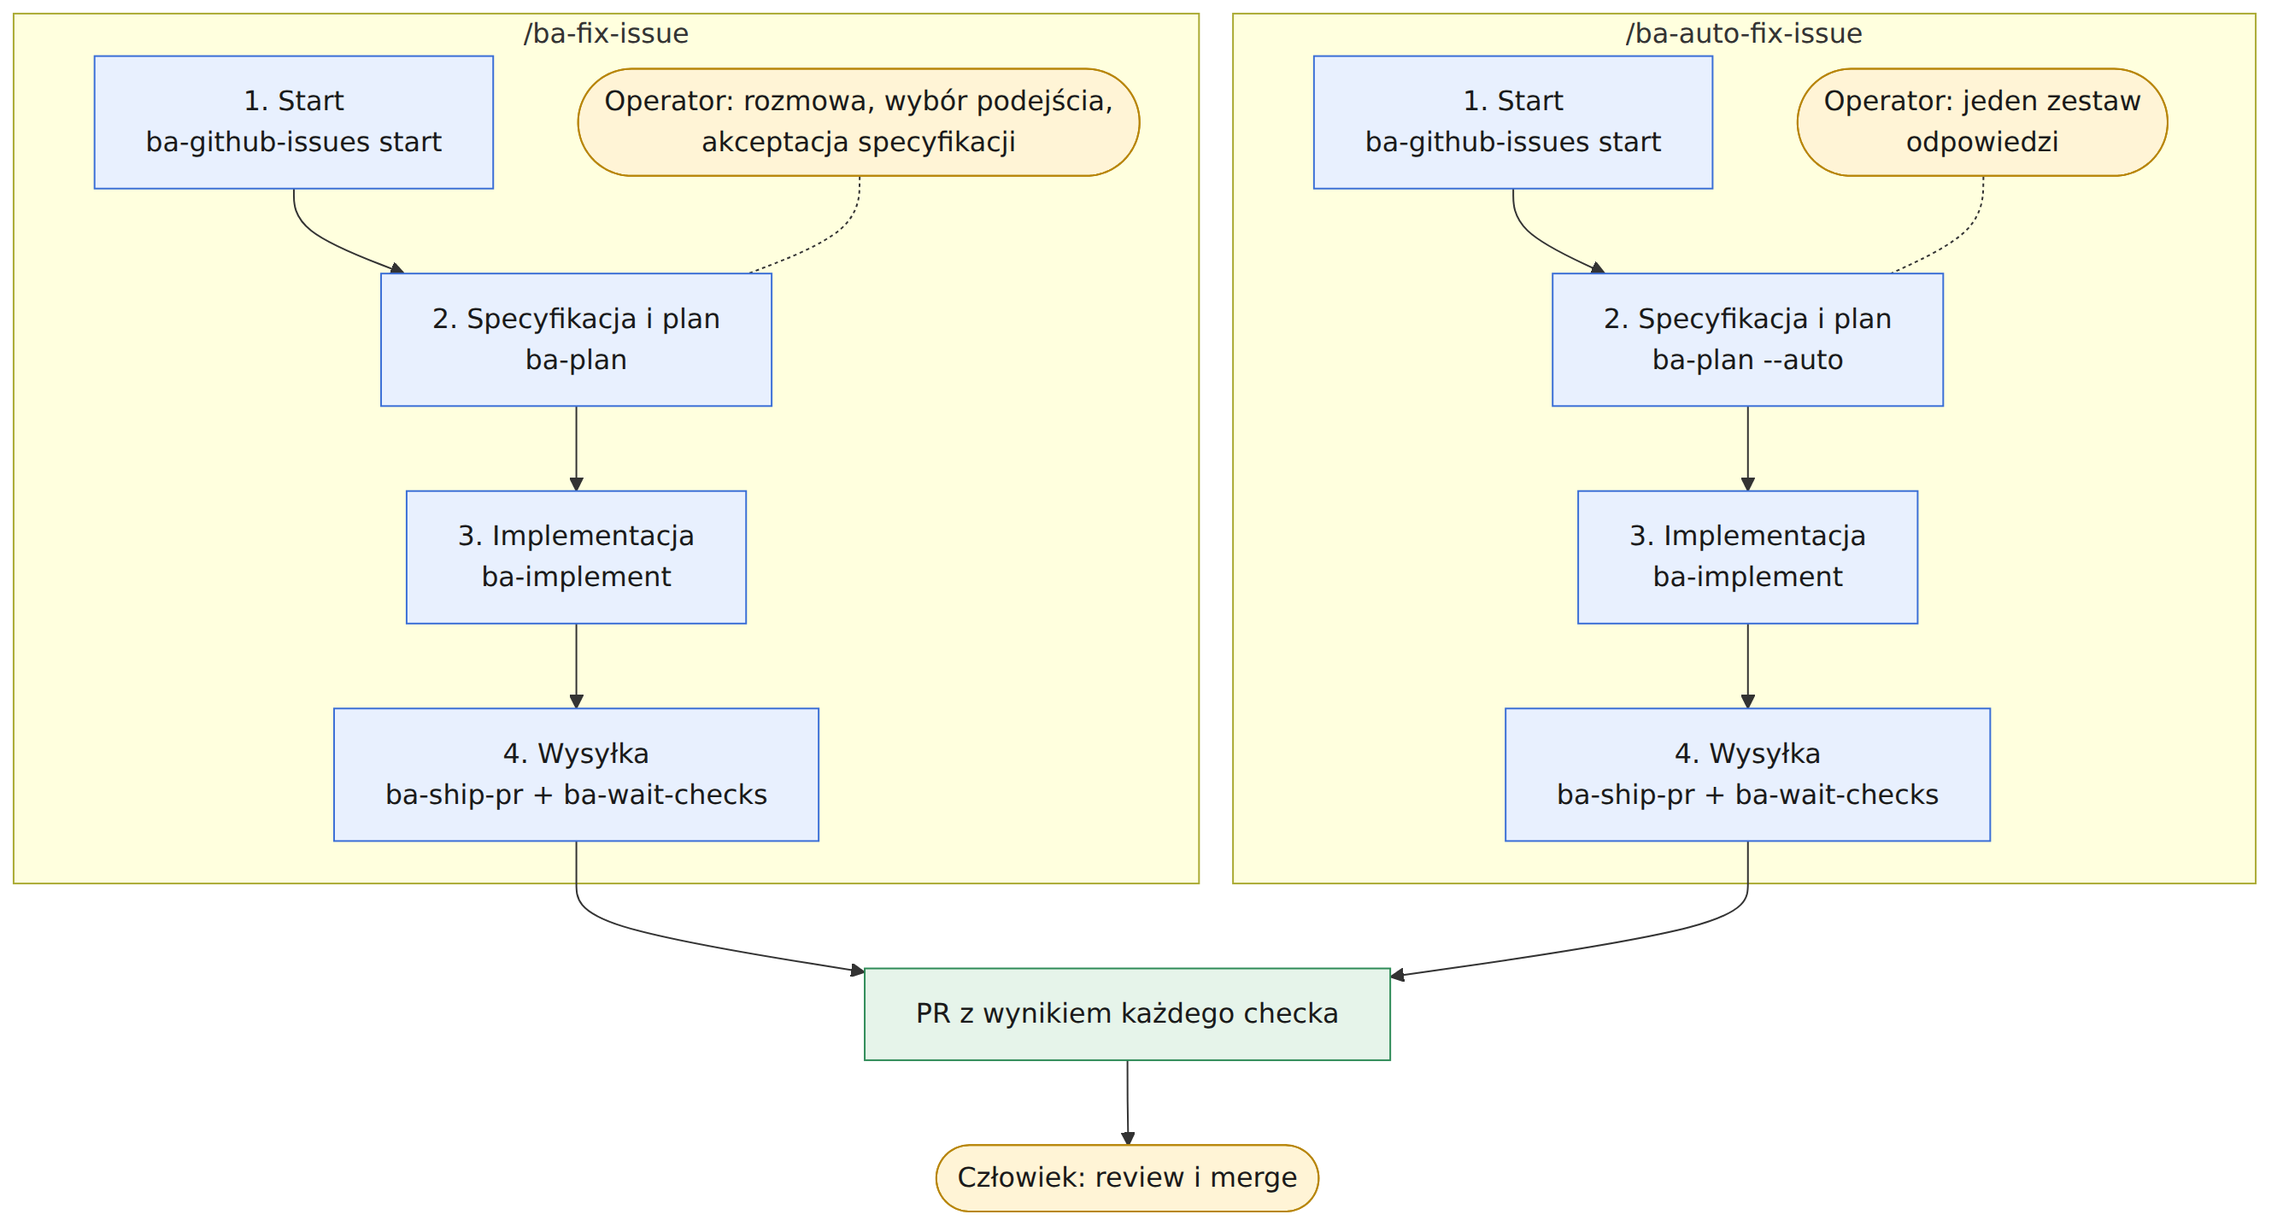
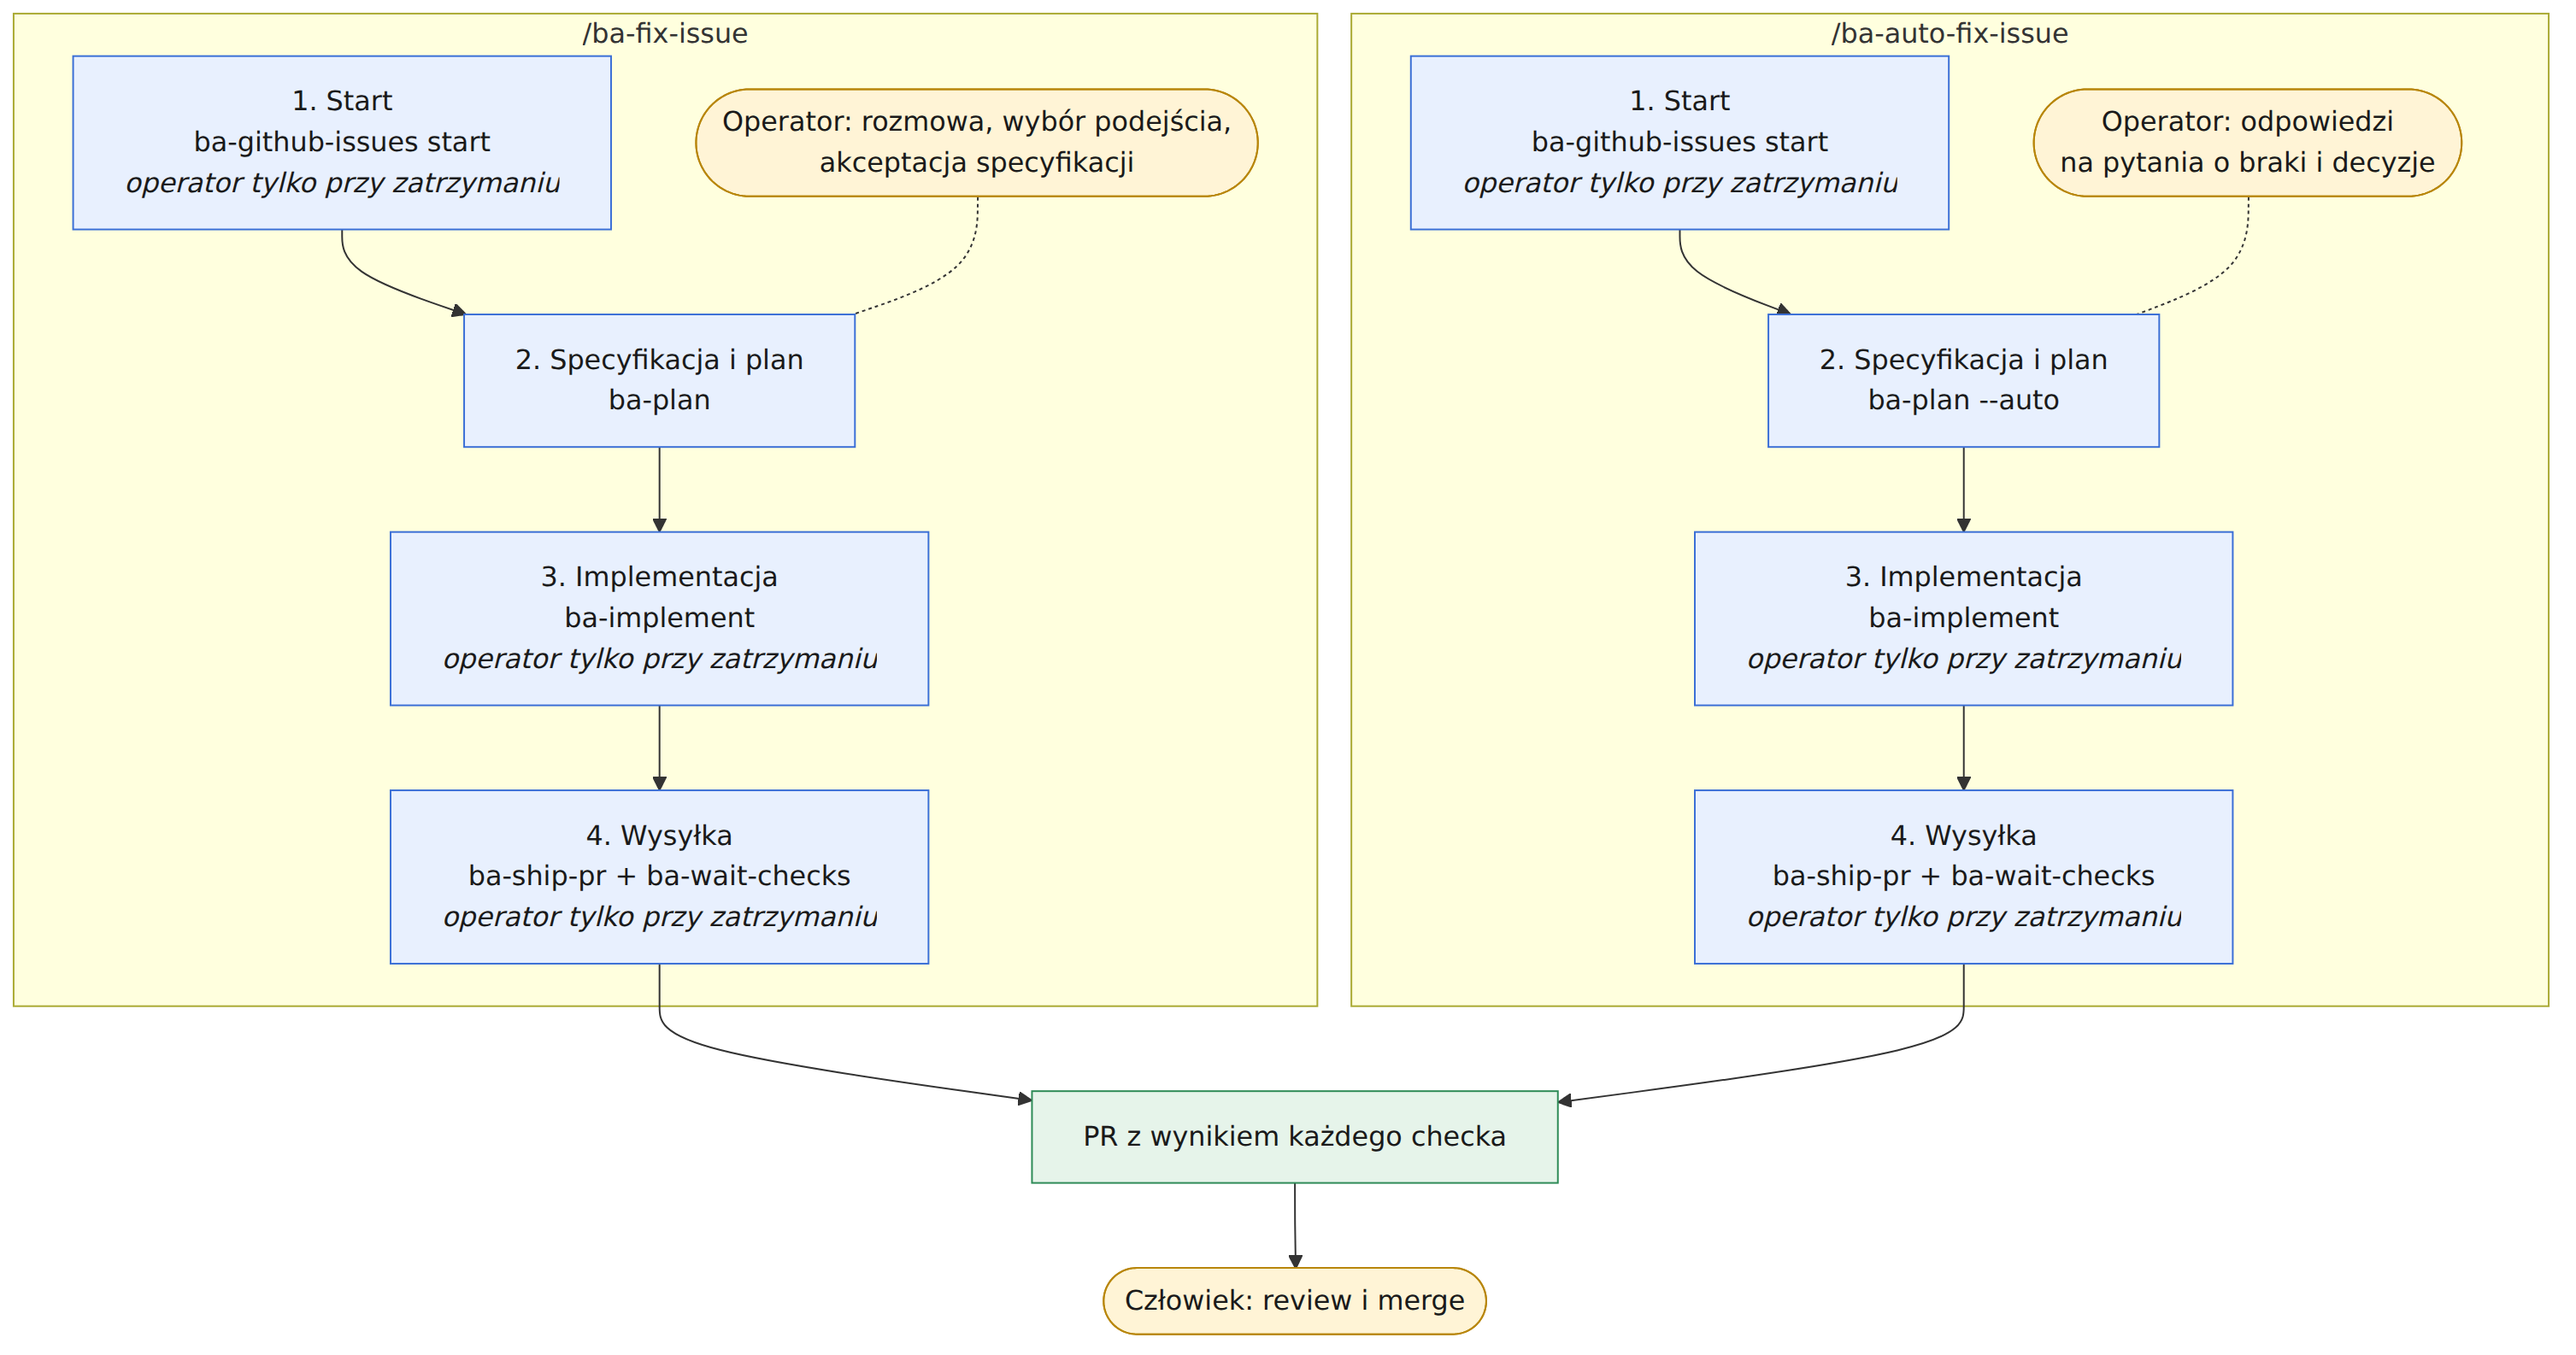
docs(diagrams): poprawki po recenzji gałęzi (#4)

diff --git a/README.md b/README.md
@@ -56,23 +56,23 @@ Skille składają się w proces od issue do merge'a. Źródła diagramów i spos
 
 ![Dwa łańcuchy, /ba-fix-issue i /ba-auto-fix-issue, przechodzą te same 4 etapy: start, specyfikacja i plan, implementacja, wysyłka](docs/diagrams/01-dwie-drogi.png)
 
-Oba łańcuchy przechodzą te same 4 etapy i kończą się PR-em z wynikiem każdego checka. W `/ba-fix-issue` operator współtworzy i akceptuje specyfikację, w `/ba-auto-fix-issue` odpowiada raz na pytania, a pozostałe etapy pytają go tylko przy zatrzymaniu.
+Oba łańcuchy przechodzą te same 4 etapy i kończą się PR-em z wynikiem każdego checka. W `/ba-fix-issue` operator współtworzy i akceptuje specyfikację, w `/ba-auto-fix-issue` odpowiada na pytania o braki i decyzje. Pozostałe etapy pytają go tylko przy zatrzymaniu.
 
 ### `/ba-fix-issue` krok po kroku
 
 ![Kroki /ba-fix-issue w torach operator, agent i GitHub, od wywołania do merge'a](docs/diagrams/02-fix-issue-tory.png)
 
-Operator wywołuje łańcuch i rozmawia z agentem tylko o specyfikacji. Resztę, aż do raportu z PR-em, agent robi sam, a review i merge zostają po stronie człowieka.
+Operator wywołuje łańcuch i współtworzy specyfikację. Resztę, aż do raportu z PR-em, agent robi sam i pyta tylko przy zatrzymaniu, a review i merge zostają po stronie człowieka.
 
 ### Gdzie decyduje operator
 
 ![5 rodzajów decyzji opiekuna i 2 momenty, w których agent pyta: strażnik w ba-plan i strażnik w ba-implement](docs/diagrams/03-decyzje-operatora.png)
 
-Decyzji opiekuna agent nigdy nie podejmuje sam. Pyta o nią w `ba-plan` przed specyfikacją albo staje w `ba-implement`, gdy decyzja wyjdzie dopiero przy kodzie.
+Agent nigdy nie podejmuje sam decyzji opiekuna. Pyta o każdą w `ba-plan` przed specyfikacją albo staje w `ba-implement`, gdy decyzja wyjdzie dopiero przy kodzie.
 
 ### Klocki i łańcuchy
 
-![Łańcuchy /ba-fix-issue i /ba-auto-fix-issue wołają po kolei ba-github-issues, ba-plan, ba-implement i ba-ship-pr, a ba-ship-pr woła ba-wait-checks i ba-mutation-check](docs/diagrams/04-klocki-i-lancuchy.png)
+![Łańcuchy /ba-fix-issue i /ba-auto-fix-issue wołają po kolei ba-github-issues, ba-plan, ba-implement i ba-ship-pr. ba-ship-pr woła ba-wait-checks, a ba-mutation-check sprawdza testy w ba-implement i ba-ship-pr](docs/diagrams/04-klocki-i-lancuchy.png)
 
 Łańcuch to skill, który woła klocki w ustalonej kolejności. `ba-setup` i `ba-refine-issue` działają przed łańcuchem, a `ba-qa` uruchamiasz osobno po implementacji.
 

diff --git a/.ai/runs/2026-11-18-readme-process-diagrams.md b/.ai/runs/2026-11-18-readme-process-diagrams.md
@@ -1,0 +1,28 @@
+# Dziennik: diagramy procesu skilli ba-* w README
+
+Issue: #4
+Plan: [`.ai/specs/2026-11-18-readme-process-diagrams-plan.md`](../specs/2026-11-18-readme-process-diagrams-plan.md)
+
+## Wybory
+
+- Plan wykonuję sam w głównej sesji, zadanie po zadaniu, zamiast podagenta na zadanie.
+  - Powód: 3 małe zadania dokumentacyjne. Task 2 wymaga oglądania PNG i poprawek układu w pętli.
+  - Recenzja całej gałęzi idzie do osobnego agenta.
+- Render z `-w 1600`. Domyślne okno 800 px zmniejszało szeroki diagram 1 do nieczytelnego tekstu. Spec i plan poprawione.
+- Diagramy z nagłówkiem `config: flowchart: wrappingWidth`. Domyślne zawijanie łamało nazwy skilli w połowie (`ba-wait-` / `checks`).
+- Diagram 1 w układzie pionowym: dwie kolumny łańcuchów. Układ poziomy miał 3168 px i za mały tekst.
+  - Uwaga „Start, Implementacja i Wysyłka pytają operatora tylko przy zatrzymaniu” przeszła do opisu pod diagramem. Jako osobny węzeł wisiała bez połączeń.
+- Diagram 3: 5 decyzji w jednym bloku z listą. Osobne bloki dawały obraz 1940 px wysokości.
+- Diagram 4: klocki w kolejności wywołania, jedna strzałka z łańcuchów. 8 krzyżujących się strzałek było nieczytelne.
+
+## Postęp
+
+- Task 1: test `tests/test_readme_diagrams.py`, 5 czerwonych. Commit b62893a.
+- Task 2: 4 pary `.mmd` + `.png`, każdy PNG obejrzany.
+- Task 3: sekcja `## Proces` w README i `docs/diagrams/README.md`. Test zielony.
+- Weryfikacja: bramka jakości zielona, 81 testów. Mutacja testu: zła ścieżka w README i brak `.mmd` dają czerwień.
+- Druga droga: grep źródeł `.mmd` (9 klocków, 5 decyzji, `ba-wait-checks` w diagramach 1 i 2), PNG w trybie RGB bez przezroczystości.
+- Recenzja całej gałęzi (osobny agent): 5 uwag, wszystkie przyjęte.
+  - Diagram 1: adnotacja „operator tylko przy zatrzymaniu” w etapach 1, 3, 4. Wraca wymóg ze specyfikacji.
+  - Diagram 4: strzałka `ba-implement` → `ba-mutation-check` według „Dobór skilli” w `project.md`.
+  - README: podpis diagramu 2 bez „tylko o specyfikacji”, `--auto` bez „raz”, zgoda zaimka w podpisie diagramu 3.

diff --git a/.ai/specs/2026-11-18-readme-process-diagrams.md b/.ai/specs/2026-11-18-readme-process-diagrams.md
@@ -65,7 +65,7 @@ README osadza obraz ścieżką względną: `![opis](docs/diagrams/01-dwie-drogi.
    - Moment 2: strażnik nr 2 w `ba-implement`. Decyzja opiekuna spoza specyfikacji zatrzymuje pracę.
 4. **Klocki i łańcuchy.**
    - `ba-fix-issue` i `ba-auto-fix-issue` wołają `ba-github-issues`, `ba-plan` (z `--auto` w drugim łańcuchu), `ba-implement`, `ba-ship-pr`.
-   - `ba-ship-pr` woła `ba-wait-checks` i `ba-mutation-check`.
+   - `ba-ship-pr` woła `ba-wait-checks` i `ba-mutation-check`. `ba-implement` też używa `ba-mutation-check` dla testu regresyjnego.
    - Przed łańcuchem: `ba-setup` raz na repo, `ba-refine-issue` dla niegotowego issue.
    - Poza łańcuchem, na żądanie: `ba-qa` po implementacji zmiany w interfejsie.
 
